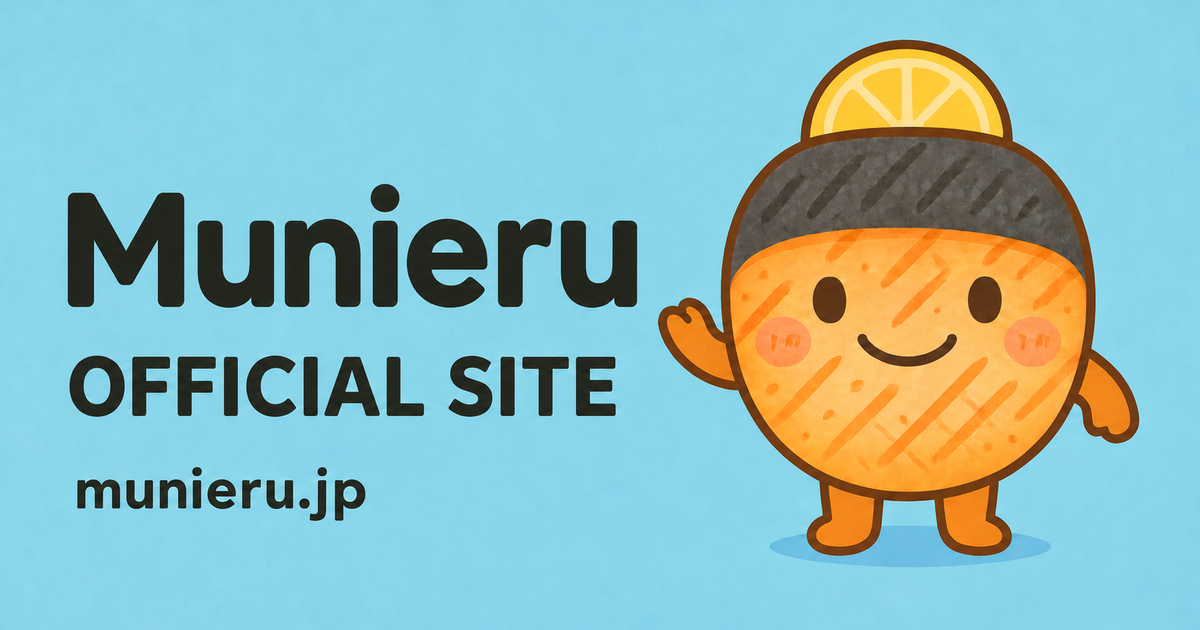
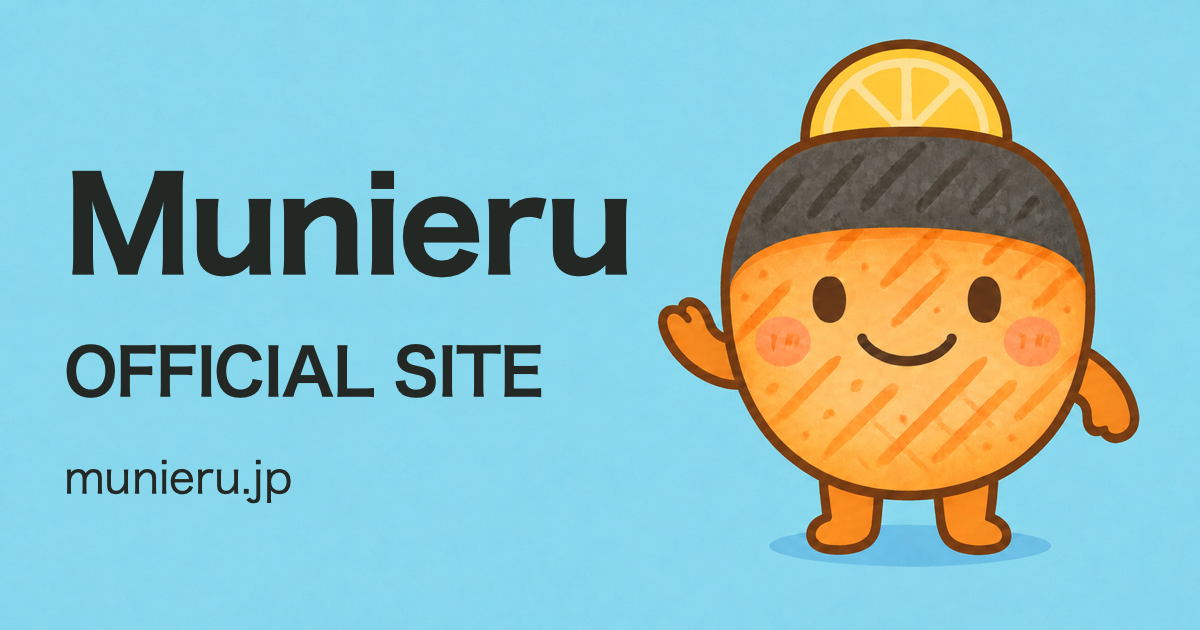
OGP画像の文字をヒラギノで組版して再生成する
文字なし背景とSwiftの書き出し処理に分離し、日英のサイト名とURLを実フォントで描画する。
旧文字入り素材を置き換え、macOSで再生成する手順を文書化する。
1200×630pxのPNG、同一出力の再現性、静的ビルドと18件のテストを確認する。

diff --git a/scripts/generate-ogp.swift b/scripts/generate-ogp.swift
@@ -1,0 +1,65 @@
+import AppKit
+import Foundation
+
+// macOS標準のヒラギノで文字を組む。フォントファイル自体は配布しない。
+// プロジェクトのルートで swift scripts/generate-ogp.swift を実行する。
+let root = URL(fileURLWithPath: CommandLine.arguments[0]).standardizedFileURL
+    .deletingLastPathComponent().deletingLastPathComponent()
+let width = 1200
+let height = 630
+let textColor = NSColor(srgbRed: 36 / 255, green: 40 / 255, blue: 36 / 255, alpha: 1)
+let backgroundURL = root.appendingPathComponent("design/ogp/background.png")
+guard let background = NSImage(contentsOf: backgroundURL) else {
+    fatalError("背景画像を読み込めません: \(backgroundURL.path)")
+}
+
+// フォントがない環境では代替書体にせず停止し、意図しない画像の更新を防ぐ。
+func font(_ name: String, size: CGFloat) -> NSFont {
+    guard let value = NSFont(name: name, size: size), value.familyName == "Hiragino Sans" else {
+        fatalError("macOSのヒラギノ角ゴシックが必要です: \(name)")
+    }
+    return value
+}
+
+func drawText(_ text: String, top: CGFloat, size: CGFloat, face: String, kern: CGFloat = 0) {
+    var currentSize = size
+    var line: NSAttributedString
+    repeat {
+        line = NSAttributedString(string: text, attributes: [
+            .font: font(face, size: currentSize),
+            .foregroundColor: textColor,
+            .kern: kern
+        ])
+        if line.size().width <= 570 { break }
+        currentSize -= 1
+    } while currentSize >= 24
+    precondition(line.size().width <= 570, "文字が左側の領域に収まりません")
+    // AppKitの座標は左下原点なので、上からの位置を変換する。
+    line.draw(at: NSPoint(x: 64, y: CGFloat(height) - top - line.size().height))
+}
+
+for (name, path) in [("ムニエル", "public/ogp.png"), ("Munieru", "public/ogp-en.png")] {
+    guard let bitmap = NSBitmapImageRep(
+        bitmapDataPlanes: nil, pixelsWide: width, pixelsHigh: height,
+        bitsPerSample: 8, samplesPerPixel: 4, hasAlpha: true, isPlanar: false,
+        colorSpaceName: .deviceRGB, bytesPerRow: 0, bitsPerPixel: 0
+    ), let context = NSGraphicsContext(bitmapImageRep: bitmap) else {
+        fatalError("描画領域を作成できません")
+    }
+    bitmap.size = NSSize(width: width, height: height)
+    NSGraphicsContext.saveGraphicsState()
+    NSGraphicsContext.current = context
+    context.imageInterpolation = .high
+    context.shouldAntialias = true
+    background.draw(in: NSRect(x: 0, y: 0, width: width, height: height))
+    drawText(name, top: 160, size: 128, face: "HiraginoSans-W7", kern: -2)
+    drawText("OFFICIAL SITE", top: 340, size: 64, face: "HiraginoSans-W6", kern: -1)
+    drawText("munieru.jp", top: 455, size: 44, face: "HiraginoSans-W3")
+    NSGraphicsContext.restoreGraphicsState()
+    guard let data = bitmap.representation(using: .png, properties: [:]) else {
+        fatalError("PNGの書き出しに失敗しました")
+    }
+    let output = root.appendingPathComponent(path)
+    try data.write(to: output)
+    print("\(path): \(width)×\(height), Hiragino Sans, \(data.count) bytes")
+}

diff --git a/design/ogp/README.md b/design/ogp/README.md
@@ -1,20 +1,26 @@
-# OGP画像の制作元
+# OGP画像の生成
 
-`blue-charcoal.png`は採用したOGP画像の元データです。組み込みのimage_genで生成した水色・チャコール文字のデザインを、新しいサイト名に合わせて更新しました。
+背景・キャラクターと文字を分離し、実際のフォントで組版してPNGへ書き出します。
 
-表示する文字は「ムニエル OFFICIAL SITE」とURL「munieru.jp」だけです。サイト名は2行に分け、単独のローマ字名や追加のコピーは入れていません。背景とキャラクターは従来のデザインを引き継いでいます。
+- 文字なし背景: `background.png`（image_genで従来のOGPから文字を除去した素材）
+- 書き出しスクリプト: `../../scripts/generate-ogp.swift`
+- 日本語版: `../../public/ogp.png`（ムニエル OFFICIAL SITE / munieru.jp）
+- 英語版: `../../public/ogp-en.png`（Munieru OFFICIAL SITE / munieru.jp）
 
-公開用は1200×630pxのPNG（フルカラー・可逆圧縮）として書き出しています。
+## 再生成
 
-- 日本語版: `blue-charcoal.png` → `public/ogp.png`（ムニエル OFFICIAL SITE / munieru.jp）
-- 英語版: `blue-charcoal-en.png` → `public/ogp-en.png`（Munieru OFFICIAL SITE / munieru.jp）
+macOSのヒラギノ角ゴシックとSwift（Xcode Command Line Tools）が必要です。リポジトリのルートで実行します。
 
-英語版は日本語版を元に、名前だけを「Munieru」へ差し替えて生成しています。
+```sh
+swift scripts/generate-ogp.swift
+```
 
-日本語版の更新時の生成指示:
+名前はHiragino Sans W7、OFFICIAL SITEはW6、URLはW3で描画します。文字色は`#242824`、出力は1200×630pxのPNGです。書体が見つからない場合は代替フォントを使わず停止します。フォントファイル自体はリポジトリへ含めません。
 
-Use case: text-localization / precise-object-edit. Edit the existing sky-blue OGP banner with the smallest possible change. Preserve the entire smiling grilled fish character with lemon on the right, including its size, placement, pose, expression, outlines, colors, textures and shadow. Preserve the wide social-card composition. Keep only the website name and URL, arranged as three left-aligned lines: "ムニエル" (largest), "OFFICIAL SITE" (bold sans serif), and "munieru.jp" (smaller). Remove the standalone Romanized name "Munieru". Keep all lettering neutral dark charcoal #242824, generous clear margins and balanced spacing. No extra wording, tagline, decoration or watermark.
+文字・配置・太さを変える場合はスクリプトを編集して再生成してください。文字の変更に画像生成は不要です。背景を変更する場合だけ素材を更新します。ビルドやCIは生成済みPNGを配信するため、macOSやフォントのインストールは不要です。
 
-英語版の生成指示:
+従来の文字入り生成画像`blue-charcoal.png`・`blue-charcoal-en.png`は、文字なし背景とスクリプトに置き換えました。
 
-Use case: text-localization. Replace only the largest Japanese text "ムニエル" with "Munieru" (capital M, lowercase unieru). Preserve "OFFICIAL SITE" and "munieru.jp", the sky-blue textured background, and all character details, scale, placement and shadow. Keep the same wide composition, dark charcoal lettering and margins. No additional wording or decoration.
+## 背景作成時の指示
+
+Edit this existing OGP banner to produce a reusable TEXT-FREE BACKGROUND PLATE. Remove ALL lettering on the left: the Japanese name ムニエル, OFFICIAL SITE, and munieru.jp. Fill only the removed letter areas seamlessly with the same sky-blue softly textured background. Keep the entire fish character with lemon on the right, including every outline, color, texture, size, placement, wave, expression, feet, lemon, and ground shadow exactly as in the supplied image. Keep the same wide landscape composition and full-bleed background. Do not move or redesign the character. Do not add ANY text, glyphs, logo, decoration or watermark. The left half must be clean empty blue background suitable for later deterministic typesetting. Preserve the image's 1200:630 aspect ratio.
